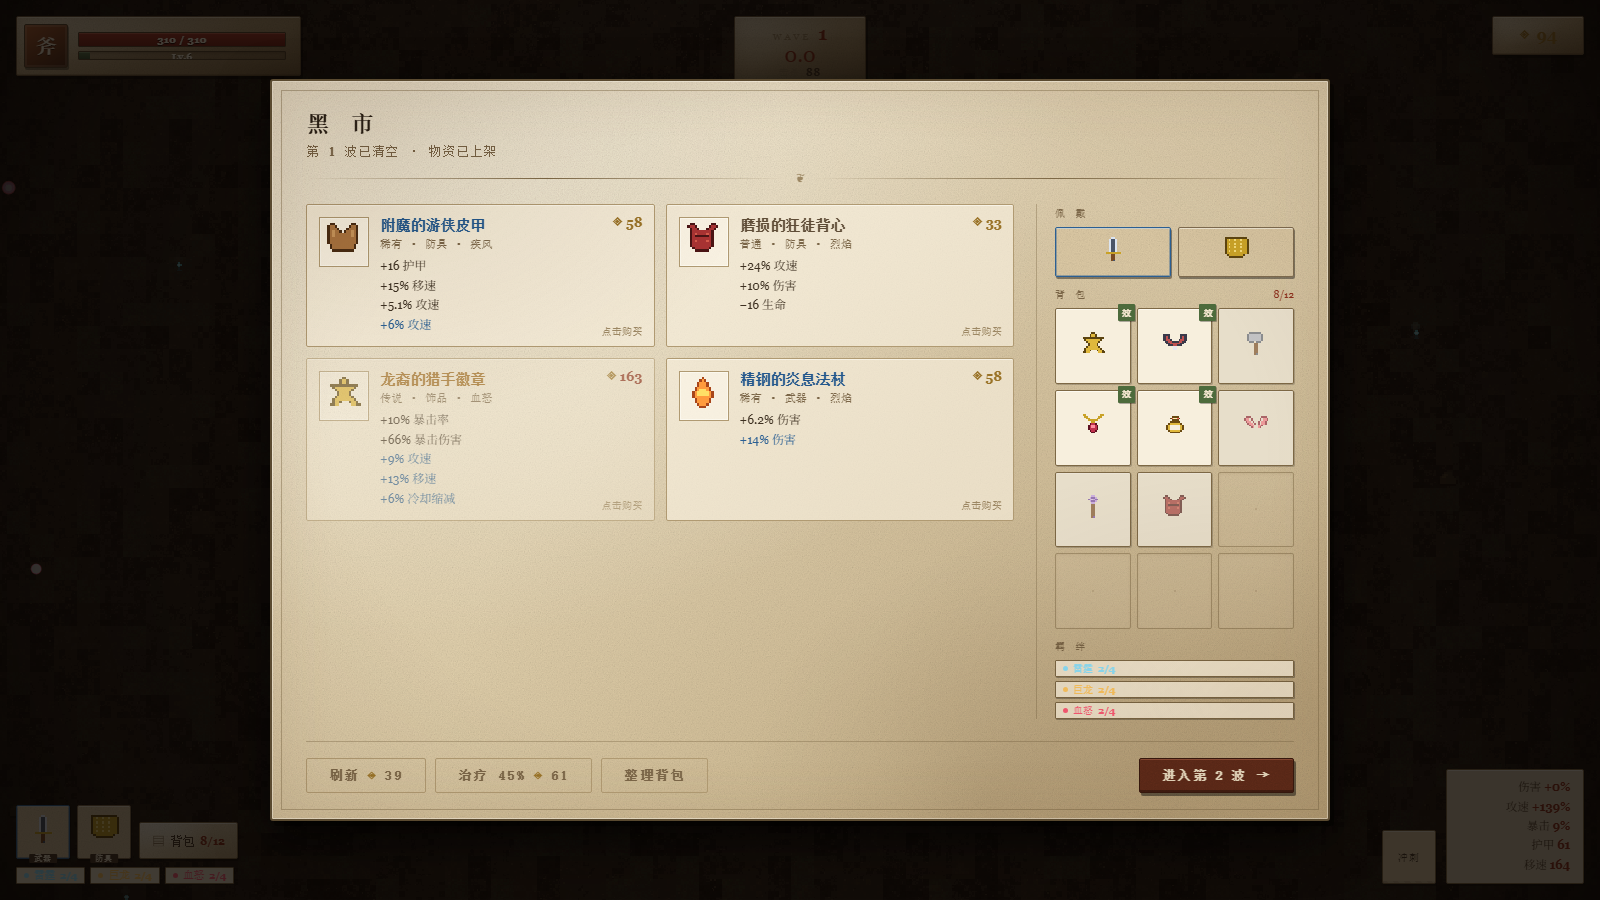
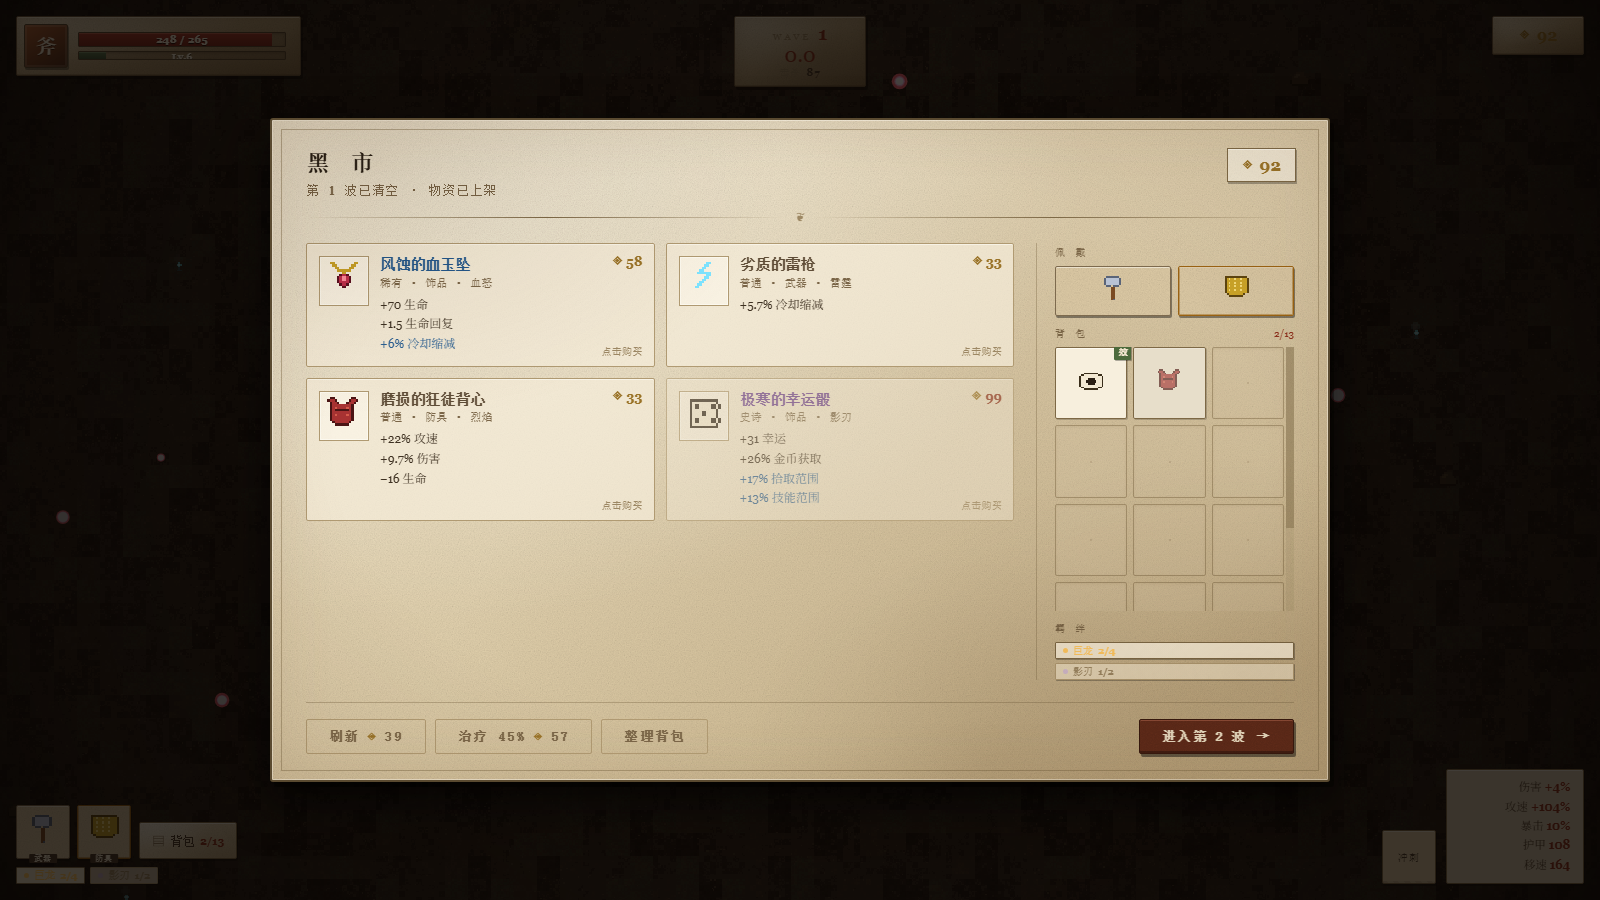
feat(bag): 行囊可扩容，商店显示金币
- 容量 = 基础 12 + 每 5 级 +1 + 扩容特性(每层+2) + 装备行囊词条(+1)，封顶 24
- 背包数组按上限预分配，超出当前容量的格子不可用
- 容量缩小时自动回收越界物品，塞不下则折算金币（normalizeBag）
- 背包网格列数随容量自适应
- 商店面板右上角常驻显示当前金币
- 单测补充容量成长与封顶校验

diff --git a/js/sim/world.js b/js/sim/world.js
@@ -16,7 +16,7 @@
   const MAX_ENEMIES = 220;       // 性能上限
   const MAX_PARTICLES = 700;
   const MAX_TEXTS = 140;
-  const BAG_SIZE = (RG.BAG_SIZE = RG.BAG_SIZE || 12); // 行囊格数
+  const BAG_SIZE = RG.BAG_MAX || 24;   // 行囊数组按上限预分配，实际可用格数见 bagCapacity()
 
   let _eid = 0;
 
@@ -134,15 +134,65 @@
       return out;
     }
 
-    bagUsed() {
-      let n = 0;
+    /**
+     * 当前行囊可用格数：
+     *   基础 12 + 每 5 级 +1 + 「扩容」特性 + 装备的行囊词条
+     */
+    bagCapacity() {
+      const p = this.player;
+      const base = RG.BAG_BASE || 12;
+      const max = RG.BAG_MAX || 24;
+      const per = RG.BAG_PER_LEVEL || 5;
+      const lvBonus = Math.floor(p.level / per);   // 5/10/15 级各解锁 1 格
+      const eqBonus = Math.round(p.stats.bagSpace || 0);
+      return Math.min(max, base + lvBonus + eqBonus);
+    }
+
+    /** 可用范围内第一个空位，没有则 -1 */
+    firstFreeSlot() {
       const bag = this.player.bag;
-      for (let i = 0; i < bag.length; i++) if (bag[i]) n++;
+      const cap = this.bagCapacity();
+      for (let i = 0; i < cap; i++) if (!bag[i]) return i;
+      return -1;
+    }
+
+    bagUsed() {
+      const bag = this.player.bag;
+      const cap = this.bagCapacity();
+      let n = 0;
+      for (let i = 0; i < cap; i++) if (bag[i]) n++;
       return n;
     }
 
     bagHasSpace() {
-      return this.player.bag.indexOf(null) >= 0;
+      return this.firstFreeSlot() >= 0;
+    }
+
+    /**
+     * 容量可能因为丢装备/换装而缩小：把超出可用范围的东西
+     * 挪回空位，实在没地方就折算成金币，避免"物品消失"。
+     */
+    normalizeBag() {
+      const p = this.player;
+      const cap = this.bagCapacity();
+      let count = 0, gold = 0;
+      for (let i = cap; i < p.bag.length; i++) {
+        const it = p.bag[i];
+        if (!it) continue;
+        const free = this.firstFreeSlot();
+        if (free >= 0) {
+          p.bag[free] = it;
+        } else {
+          gold += Math.max(1, Math.round(it.price * 0.3));
+          count++;
+        }
+        p.bag[i] = null;
+      }
+      if (count > 0) {
+        p.gold += gold;
+        this.totalGold += gold;
+        this.events.push({ type: 'bagShrink', count, gold });
+      }
     }
 
     /* ================== 属性重算 ================== */
@@ -162,7 +212,7 @@
       const defaults = {
         maxHp: 100, armor: 0, moveSpeed: 180, attackSpeed: 0, damage: 1,
         crit: 0, critMult: 1.5, pickup: 1, luck: 0, cdr: 0, area: 1,
-        regen: 0, xpGain: 0, goldGain: 0, thorns: 0, lifesteal: 0,
+        regen: 0, xpGain: 0, goldGain: 0, thorns: 0, lifesteal: 0, bagSpace: 0,
       };
       for (const k in defaults) if (s[k] === undefined) s[k] = defaults[k];
 
@@ -214,6 +264,8 @@
       if (opts && opts.heal && ctx.healOnApply) {
         p.hp = Math.min(s.maxHp, p.hp + ctx.healOnApply);
       }
+      // 容量可能变化（特性/词条），把越界物品收回来
+      this.normalizeBag();
       return s;
     }
 
@@ -796,7 +848,7 @@
      */
     pickupItem(item) {
       const p = this.player;
-      const idx = p.bag.indexOf(null);
+      const idx = this.firstFreeSlot();
       if (idx < 0) {
         this.warnBagFull();
         return false;
@@ -827,6 +879,7 @@
     /** 把背包里的武器/防具换到佩戴位（与原佩戴位互换） */
     equipFromBag(idx) {
       const p = this.player;
+      if (idx < 0 || idx >= this.bagCapacity()) return false;
       const it = p.bag[idx];
       if (!it) return false;
       if (it.slot !== 'weapon' && it.slot !== 'armor') return false;
@@ -848,6 +901,7 @@
     /** 丢弃背包物品，返还少量金币 */
     dropFromBag(idx) {
       const p = this.player;
+      if (idx < 0 || idx >= this.bagCapacity()) return false;
       const it = p.bag[idx];
       if (!it) return false;
       const refund = Math.max(1, Math.round(it.price * 0.25));
@@ -863,7 +917,8 @@
     sellWorstFromBag(keepSlot) {
       const p = this.player;
       let worst = -1, worstScore = Infinity;
-      for (let i = 0; i < p.bag.length; i++) {
+      const cap = this.bagCapacity();
+      for (let i = 0; i < cap; i++) {
         const it = p.bag[i];
         if (!it) continue;
         if (keepSlot && it.slot !== keepSlot) continue;

diff --git a/js/ui/ui.js b/js/ui/ui.js
@@ -94,6 +94,7 @@
         shopRerollCost: $('shopRerollCost'), healCost: $('healCost'),
         shopWornBar: $('shopWornBar'), shopBagGrid: $('shopBagGrid'),
         shopBagCount: $('shopBagCount'), shopBondBar: $('shopBondBar'),
+        shopGold: $('shopGold'),
 
         bagWornBar: $('bagWornBar'), bagGrid: $('bagGrid'),
         bagBondBar: $('bagBondBar'), bagCount2: $('bagCount2'),
@@ -434,8 +435,9 @@
         `<div>移速 <i>${Math.round(st.moveSpeed)}</i></div>`;
 
       const used = w.bagUsed();
-      this.el.bagCount.textContent = `${used}/12`;
-      this.el.bagToggle.classList.toggle('full', used >= 12);
+      const cap = w.bagCapacity();
+      this.el.bagCount.textContent = `${used}/${cap}`;
+      this.el.bagToggle.classList.toggle('full', used >= cap);
 
       this.updateWorn(w);
       this.updateBondBar(w);
@@ -531,18 +533,25 @@
       this.renderWornBar(this.el.bagWornBar, w, 'big');
       this.renderBagGrid(this.el.bagGrid, w, 'full');
       this.renderBondBar(this.el.bagBondBar, w);
-      this.el.bagCount2.textContent = `${w.bagUsed()} / 12`;
+      this.el.bagCount2.textContent = `${w.bagUsed()} / ${w.bagCapacity()}`;
       this.el.wornTip.textContent = w.bagHasSpace()
-        ? '点击行囊中的武器 / 护甲可换到佩戴位'
+        ? '点击行囊中的武器 / 护甲可换到佩戴位 · 每 5 级与部分装备会扩充行囊'
         : '行囊已满 —— 丢弃物品后才能拾取新的';
     }
 
     renderBagGrid(container, w, mode) {
       if (!container) return;
       const bag = w.player.bag;
+      const cap = w.bagCapacity();
+
+      if (mode !== 'mini') {
+        const cols = cap <= 12 ? 4 : cap <= 18 ? 5 : 6;
+        container.style.gridTemplateColumns = `repeat(${cols}, minmax(0, 1fr))`;
+        container.style.maxWidth = cols * 104 + 'px';
+      }
       container.innerHTML = '';
 
-      for (let i = 0; i < bag.length; i++) {
+      for (let i = 0; i < cap; i++) {
         const it = bag[i];
         const d = document.createElement('div');
         d.dataset.idx = i;
@@ -598,6 +607,9 @@
             break;
           case 'bagFull':
             this.toast('行囊已满 · 无法拾取', 'bad');
+            break;
+          case 'bagShrink':
+            this.toast(`行囊缩小，${ev.count} 件装备折算 ◈${ev.gold}`, 'bad');
             break;
           case 'bagOverflow':
             this.toast(`行囊已满，${ev.count} 件装备折算 ◈${ev.gold}`, 'bad');
@@ -666,7 +678,8 @@
       this.el.nextWaveNum.textContent = w.wave + 1;
       this.el.shopRerollCost.textContent = w.shop.rerollCost;
       this.el.healCost.textContent = w.shop.healCost;
-      this.el.shopBagCount.textContent = `${w.bagUsed()}/12`;
+      this.el.shopBagCount.textContent = `${w.bagUsed()}/${w.bagCapacity()}`;
+      if (this.el.shopGold) this.el.shopGold.textContent = U.nf(p.gold);
 
       const grid = this.el.shopGrid;
       grid.innerHTML = '';

diff --git a/test/sim-test.js b/test/sim-test.js
@@ -193,8 +193,9 @@ console.log('\n=== 6b. 背包容量与拾取规则 ===');
 {
   const world = new RG.World({ charId: 'rayn', seed: 9 });
   const p = world.player;
-  // 塞满背包
-  for (let i = 0; i < p.bag.length; i++) {
+  const cap0 = world.bagCapacity();
+  // 塞满「可用范围」
+  for (let i = 0; i < cap0; i++) {
     p.bag[i] = RG.makeItem('powerring', { wave: 2, rarity: 'common', rng });
   }
   assert(!world.bagHasSpace(), '背包应已满');
@@ -208,7 +209,36 @@ console.log('\n=== 6b. 背包容量与拾取规则 ===');
   assert(world.bagHasSpace(), '丢弃后应有空位');
   const ok2 = world.pickupItem(RG.makeItem('sword', { wave: 2, rarity: 'rare', rng }));
   assert(ok2 === true, '有空位时应能拾取');
-  console.log('  ✓ 满包拒收 / 丢弃后恢复拾取');
+  console.log(`  ✓ 满包(${cap0}格)拒收 / 丢弃后恢复拾取`);
+
+  // 容量成长：等级 / 特性 / 装备词条
+  {
+    const w3 = new RG.World({ charId: 'rayn', seed: 21 });
+    const p3 = w3.player;
+    const base = w3.bagCapacity();
+    p3.level = 5;
+    assert(w3.bagCapacity() === base + 1, `5 级应 +1 格，实际 ${w3.bagCapacity()}`);
+    p3.level = 11;
+    assert(w3.bagCapacity() === base + 2, `11 级应 +2 格`);
+    p3.perkCounts.deepbag = 2;          // 扩容行囊 ×2 → +4
+    w3.recomputeStats();
+    assert(w3.bagCapacity() === base + 6, `扩容特性未生效，实际 ${w3.bagCapacity()}`);
+    // 装备词条 +1
+    p3.bag[0] = RG.makeItem('powerring', { wave: 3, rarity: 'common', rng });
+    p3.bag[0].stats.bagSpace = 1;
+    w3.recomputeStats();
+    assert(w3.bagCapacity() === base + 7, `装备行囊词条未生效，实际 ${w3.bagCapacity()}`);
+    // 上限收敛
+    p3.level = 99;
+    p3.perkCounts.deepbag = 3;
+    for (let i = 0; i < 24; i++) {
+      if (!p3.bag[i]) p3.bag[i] = RG.makeItem('powerring', { wave: 3, rarity: 'common', rng });
+      p3.bag[i].stats.bagSpace = 3;
+    }
+    w3.recomputeStats();
+    assert(w3.bagCapacity() <= RG.BAG_MAX, `容量应封顶在 ${RG.BAG_MAX}，实际 ${w3.bagCapacity()}`);
+    console.log(`  ✓ 容量成长与封顶（基础 ${base} → 上限 ${RG.BAG_MAX}）`);
+  }
 
   // 饰品进包即生效，武器进包不生效
   const w2 = new RG.World({ charId: 'rayn', seed: 11 });

diff --git a/js/data/affixes.js b/js/data/affixes.js
@@ -42,6 +42,8 @@
     { id: 'xp',      name: '经验',     stat: 'xpGain',     kind: 'pct',  min: 0.06, max: 0.16, weight: 6,  fmt: (v) => '+' + Math.round(v * 100) + '% 经验获取' },
     { id: 'gold',    name: '贪婪',     stat: 'goldGain',   kind: 'pct',  min: 0.08, max: 0.20, weight: 6,  fmt: (v) => '+' + Math.round(v * 100) + '% 金币获取' },
     { id: 'lifesteal', name: '吸血',   stat: 'lifesteal',  kind: 'pct',  min: 0.01, max: 0.025, weight: 5, fmt: (v) => '+' + (v * 100).toFixed(1) + '% 生命偷取' },
+    // 元属性：不参与数值浮动，固定 +1 格（见 rollAffix 的 fixed 分支）
+    { id: 'bagspace', name: '行囊',    stat: 'bagSpace',   kind: 'flat', min: 1, max: 1, weight: 4, fixed: true, fmt: () => '+1 行囊格' },
   ];
 
   RG.AFFIX_MAP = {};
@@ -75,10 +77,15 @@
     }
     const a = rng.weighted(pool, weights);
     // 基础浮动 0.82 ~ 1.0，越高稀有度越靠上限
-    const rollQuality = rng.float(0.8, 1.0) * (0.9 + rar.affixes * 0.03);
-    let v = rng.float(a.min, a.max) * rollQuality * rar.mult;
-    if (a.kind === 'pct') v = Math.round(v * 1000) / 1000;
-    else v = Math.round(v * 10) / 10;
+    let v;
+    if (a.fixed) {
+      v = a.min;                    // 固定值词条不做浮动/倍率放大
+    } else {
+      const rollQuality = rng.float(0.8, 1.0) * (0.9 + rar.affixes * 0.03);
+      v = rng.float(a.min, a.max) * rollQuality * rar.mult;
+      if (a.kind === 'pct') v = Math.round(v * 1000) / 1000;
+      else v = Math.round(v * 10) / 10;
+    }
     return {
       id: a.id,
       stat: a.stat,

diff --git a/css/style.css b/css/style.css
@@ -702,6 +702,21 @@ kbd {
    ========================================================== */
 .shop-panel { width: min(1060px, 100%); }
 
+/* 商店右上角的金币显示：让人不用去瞄 HUD */
+.shop-gold {
+  position: absolute;
+  top: 28px; right: 32px;
+  display: flex; align-items: center; gap: 6px;
+  padding: 6px 14px;
+  border: 1px solid var(--line-deep);
+  background: rgba(255,252,242,.55);
+  font-family: var(--serif-en);
+  font-size: 17px; font-weight: 700;
+  color: var(--gold);
+  box-shadow: inset 0 1px 0 rgba(255,255,250,.6), 1px 2px 0 rgba(0,0,0,.28);
+}
+.shop-gold .coin { font-size: 12px; }
+
 .shop-columns { display: grid; grid-template-columns: 1fr 258px; gap: 22px; }
 @media (max-width: 940px) { .shop-columns { grid-template-columns: 1fr; } }
 
@@ -816,7 +831,13 @@ kbd {
 .bag-side { display: flex; flex-direction: column; gap: 9px; }
 
 .bag-grid { display: grid; grid-template-columns: repeat(4, minmax(0, 96px)); gap: 8px; }
-.bag-grid.mini { grid-template-columns: repeat(3, 1fr); gap: 6px; }
+.bag-grid.mini {
+  grid-template-columns: repeat(3, 1fr);
+  gap: 6px;
+  max-height: 264px;
+  overflow-y: auto;
+  padding-right: 2px;
+}
 
 .bag-cell {
   position: relative;

diff --git a/js/data/perks.js b/js/data/perks.js
@@ -73,6 +73,9 @@
     { id: 'pierce', name: '贯穿', icon: '穿', tier: 'rare', max: 3,
       desc: '投射物额外穿透 <em>+1</em> 个敌人', apply: (s, m) => { m.pierceBonus = (m.pierceBonus || 0) + 1; } },
 
+    { id: 'deepbag', name: '扩容行囊', icon: '囊', tier: 'rare', max: 3,
+      desc: '行囊容量 <em>+2</em> 格', apply: (s) => { s.bagSpace += 2; } },
+
     { id: 'timelord', name: '时间扭曲', icon: '时', tier: 'rare', max: 3,
       desc: '冷却缩减 <em>+15%</em>，移速 <em>-5%</em>', apply: (s) => { s.cdr += 0.15; s.moveSpeed -= 0.05; } },
 

diff --git a/js/data/items.js b/js/data/items.js
@@ -18,8 +18,14 @@
     { id: 'armor', name: '防具' },
   ];
 
-  /** 行囊容量 */
-  RG.BAG_SIZE = 12;
+  /* 行囊容量
+     ------------------------------------------------------------
+     基础 12 格；每 5 级 +1 格；「扩容」特性与装备词条还能再加。
+     数组按上限 BAG_MAX 预分配，超出当前容量的格子不可用。 */
+  RG.BAG_BASE = 12;
+  RG.BAG_MAX = 24;
+  RG.BAG_PER_LEVEL = 5;
+  RG.BAG_SIZE = RG.BAG_BASE;
 
   /* ---------------------- 武器 ----------------------
      attack.type:

diff --git a/index.html b/index.html
@@ -115,6 +115,7 @@
       <div class="panel-head">
         <div class="panel-title">黑 市</div>
         <div class="panel-sub">第 <b id="shopWave">1</b> 波已清空 · 物资已上架</div>
+        <div class="shop-gold"><span class="coin">◈</span><b id="shopGold">0</b></div>
         <div class="rule"><span>❦</span></div>
       </div>
 

diff --git a/README.md b/README.md
@@ -60,13 +60,26 @@ python -m http.server 8080
 | 位置 | 容量 | 规则 |
 | --- | --- | --- |
 | **佩戴位** | 武器 ×1、防具 ×1 | **只有放在这里才生效** |
-| **行囊** | 12 格 | 饰品放进来**即生效**；武器/防具放进来不生效，只作备用 |
+| **行囊** | 12 格起，可扩容至 24 | 饰品放进来**即生效**；武器/防具放进来不生效，只作备用 |
 
 这套规则让"行囊空间"成为真正的资源：
 
 - **饰品流**：12 格全塞饰品 → 属性最大化、羁绊容易堆高，但换不了新武器防具
 - **均衡流**：留 2-3 格放备用武器防具 → 随时换装，但饰品少一半
 - **行囊满时无法拾取**，地上的装备会亮出「行囊已满」，需要回城（Tab）丢弃或替换
+
+**行囊怎么变大**
+
+| 来源 | 增量 |
+| --- | --- |
+| 基础 | 12 格 |
+| 角色等级 | 每 5 级 +1（5 / 10 / 15 …） |
+| 「扩容行囊」特性 | 每层 +2，最多 3 层 |
+| 装备「行囊」词条 | 每件 +1 |
+| **上限** | **24 格** |
+
+扩容是构筑的一部分：前期 12 格逼你取舍，中后期堆到 18~24 格才能真正跑起「全饰品 + 高层羁绊」，
+而「扩容行囊」本身要占掉一次升级选择。容量因换装而缩小时，越界物品会自动收回或折算成金币，不会凭空消失。
 
 行囊里可以：
 - 点击武器/防具 → 与佩戴位互换
